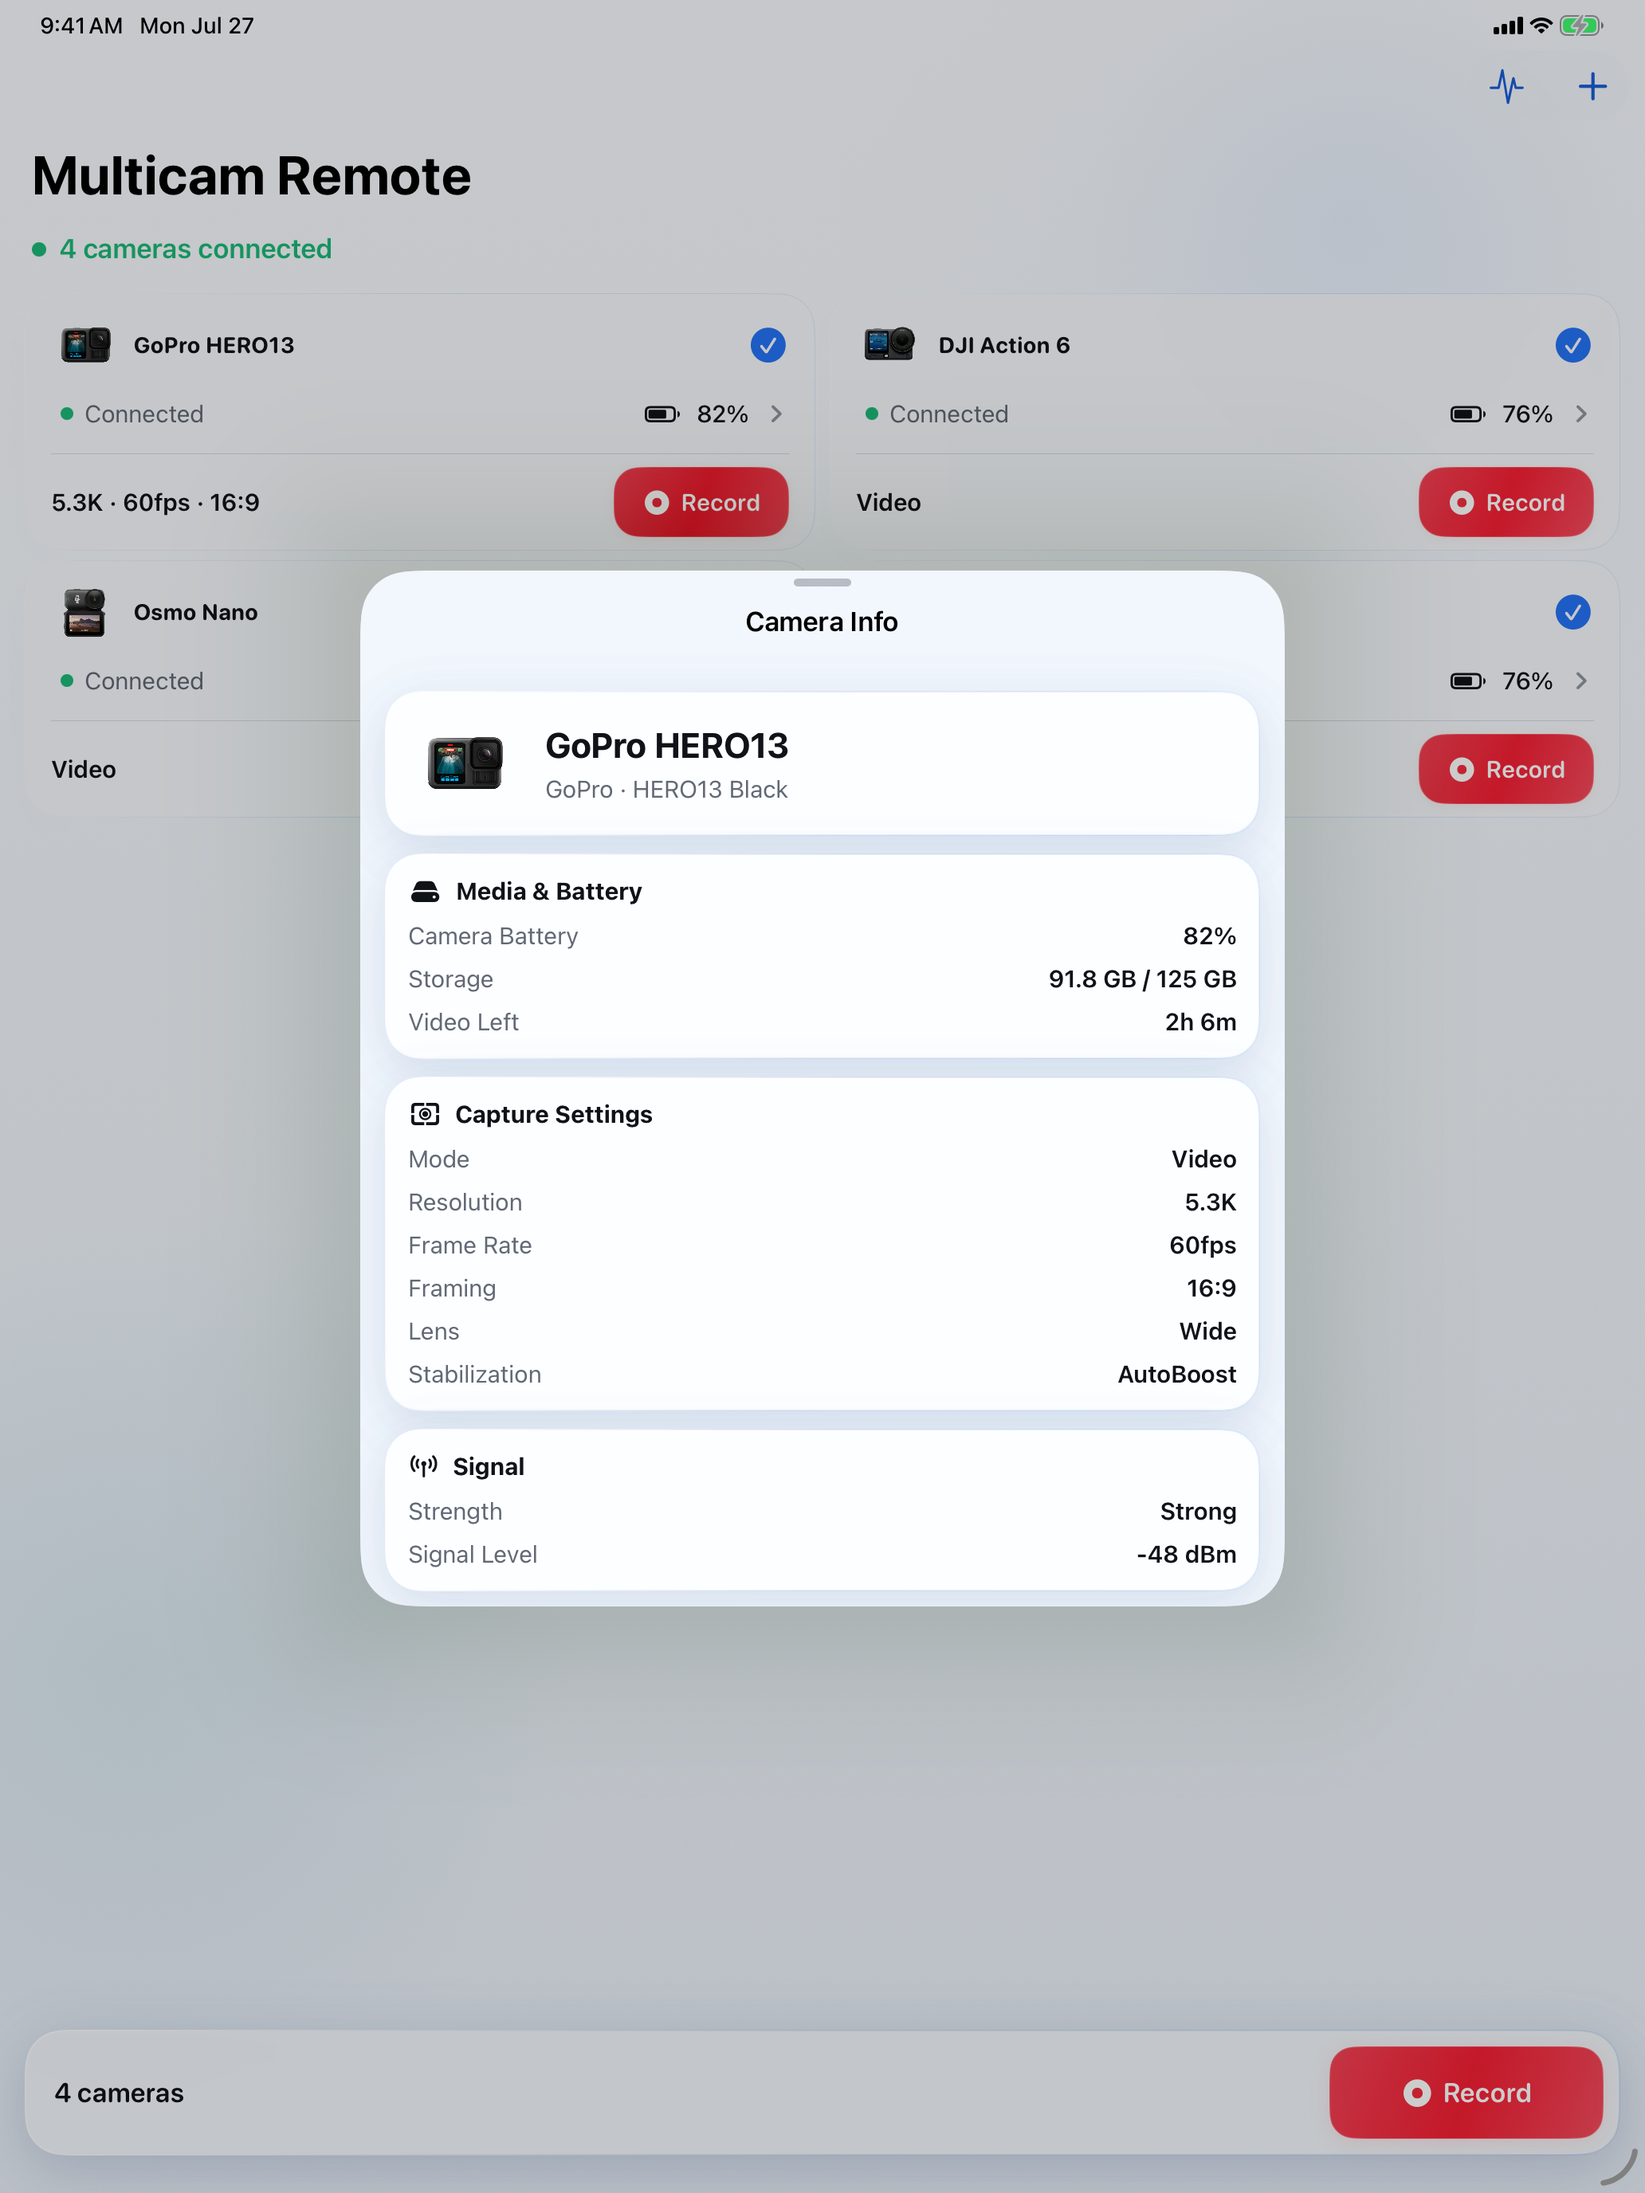
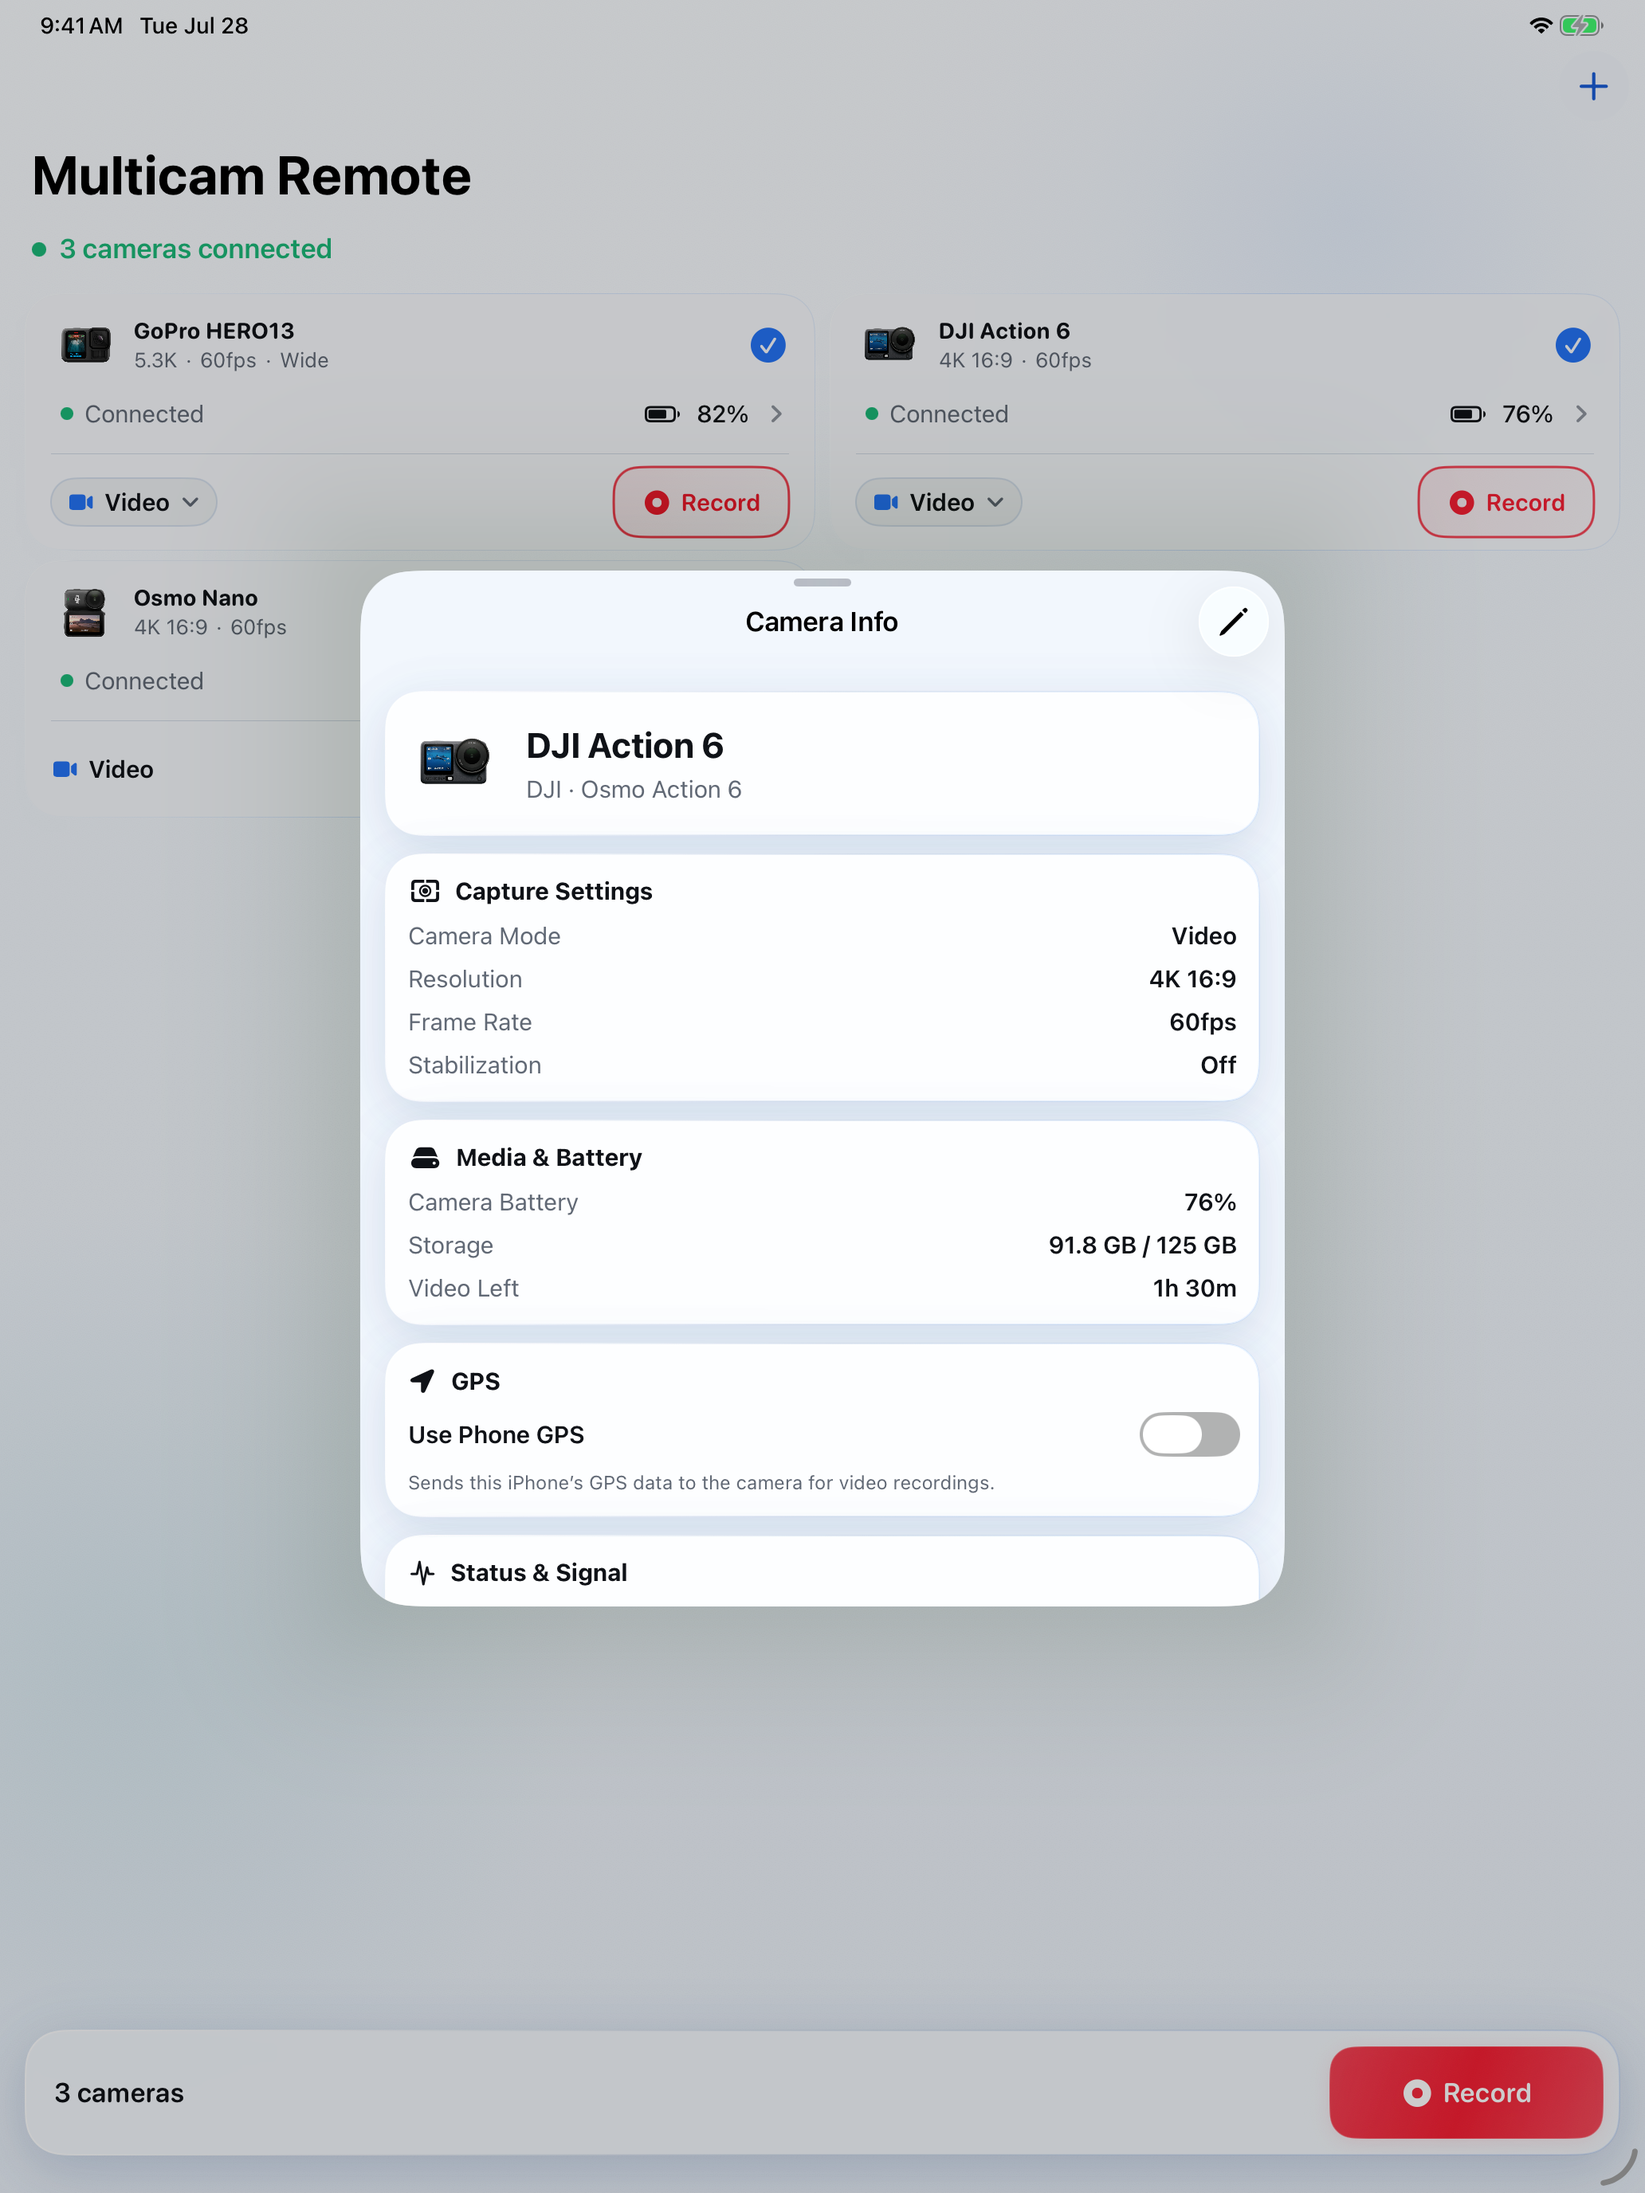
Hide diagnostics in App Store screenshot mode

diff --git a/ActionCamRemote/UI/CameraDashboardView.swift b/ActionCamRemote/UI/CameraDashboardView.swift
@@ -44,14 +44,16 @@ struct CameraDashboardView: View {
             .toolbar {
                 ToolbarItemGroup(placement: .topBarTrailing) {
                     #if DEBUG
-                    Button {
-                        isShowingDiagnostics = true
-                    } label: {
-                        Image(systemName: "waveform.path.ecg")
+                    if !ProcessInfo.processInfo.arguments.contains("--app-store-screenshots") {
+                        Button {
+                            isShowingDiagnostics = true
+                        } label: {
+                            Image(systemName: "waveform.path.ecg")
+                        }
+                        .foregroundStyle(Color.acrToolbarIcon)
+                        .accessibilityLabel("Open diagnostics")
+                        .help("Diagnostics")
                     }
-                    .foregroundStyle(Color.acrToolbarIcon)
-                    .accessibilityLabel("Open diagnostics")
-                    .help("Diagnostics")
                     #endif
 
                     if !store.pairedCameras.isEmpty {
